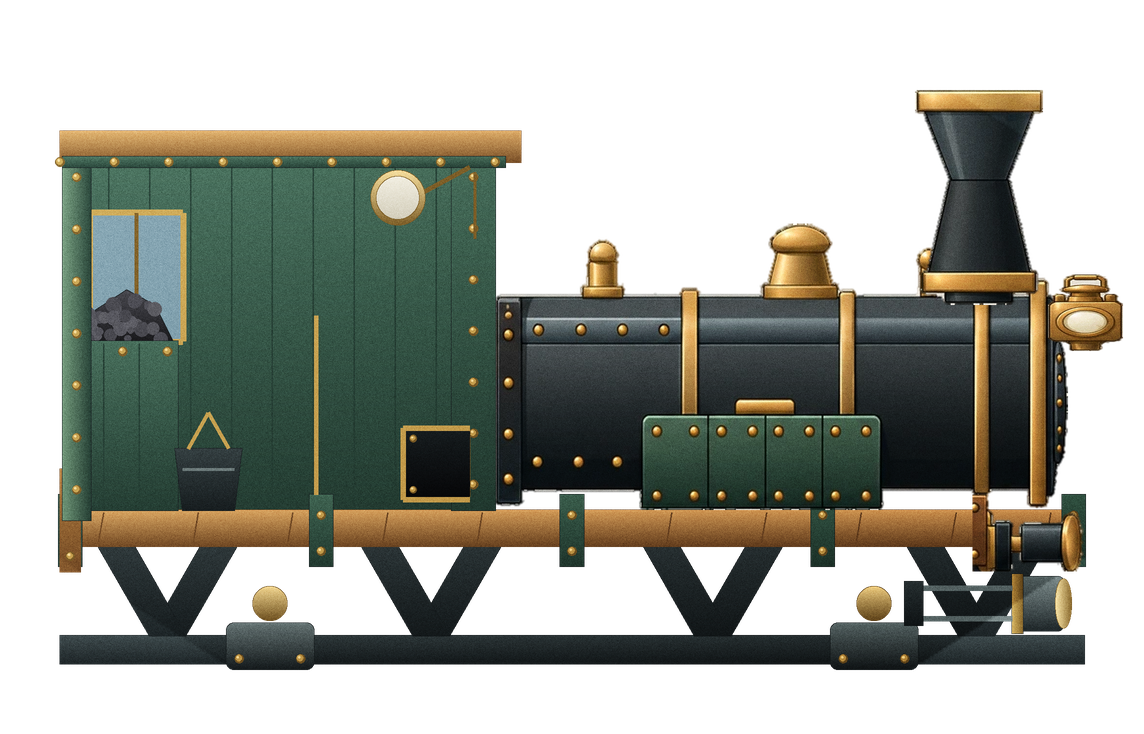
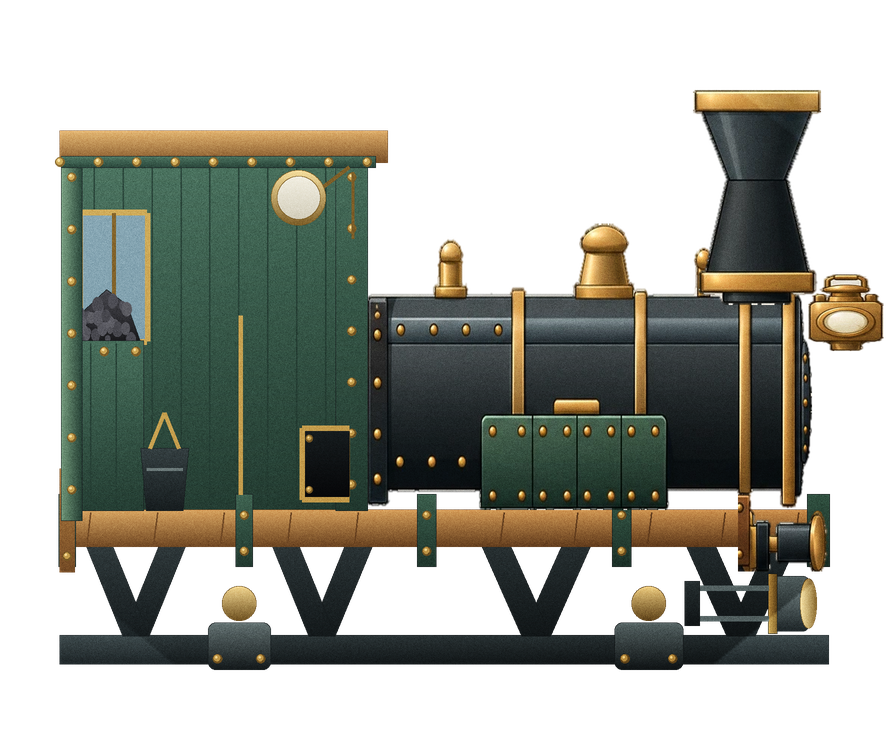
1.2.0-preview.13: platform lengths grow with class (2.4 / 3.0 / 3.6 / 4.0)
Steam 3.0 m and petrol 3.6 m (art re-laid out through XMAP in the art
scripts), electric stays 4.0 m. Wheels sit symmetrically per class; live
overlays (fire door, gauge, smoke, rods, lamp) moved with the art.

diff --git a/tools/make_steam_art.py b/tools/make_steam_art.py
@@ -28,7 +28,7 @@ OUT = ROOT / "ForestRail/assets/art_p2/steam_locomotive_body.png"
 S = 256            # output pixels per metre
 SS = 2             # supersampling
 MARGIN = 60        # output px
-LENGTH = 4.0
+LENGTH = 3.0
 HEIGHT = 2.40
 W = int(LENGTH * S + 2 * MARGIN)
 H = int(HEIGHT * S + 2 * MARGIN)
@@ -54,9 +54,36 @@ random.seed(7)
 canvas = Image.new("RGBA", (W * SS, H * SS), (0, 0, 0, 0))
 
 
+# The art is laid out on a 4.0 m drawing; XMAP squeezes or stretches stretches of it
+# to the standard platform length of this class (old x -> new x, piecewise linear).
+XMAP = [(-2.0, -1.5), (-0.3, -0.3), (1.94, 1.44), (2.0, 1.5)]
+
+
+def mx(x: float) -> float:
+    pts = XMAP
+    if x <= pts[0][0]:
+        i = 0
+    elif x >= pts[-1][0]:
+        i = len(pts) - 2
+    else:
+        i = max(k for k in range(len(pts) - 1) if pts[k][0] <= x)
+    (a0, b0), (a1, b1) = pts[i], pts[i + 1]
+    return b0 + (x - a0) * (b1 - b0) / (a1 - a0)
+
+
+def inv_mx(xn: float) -> float:
+    pts = XMAP
+    i = 0
+    for k in range(len(pts) - 1):
+        if pts[k][1] <= xn:
+            i = k
+    (a0, b0), (a1, b1) = pts[i], pts[i + 1]
+    return a0 + (xn - b0) * (a1 - a0) / (b1 - b0)
+
+
 def px(x: float, y: float):
     """Metres (x right of centre, y above rail) to supersampled pixels."""
-    return ((x + LENGTH / 2) * S + MARGIN) * SS, (RAIL_Y - y * S) * SS
+    return ((mx(x) + LENGTH / 2) * S + MARGIN) * SS, (RAIL_Y - y * S) * SS
 
 
 def lerp(a, b, t):
@@ -123,8 +150,10 @@ def poly(points, top, bottom, horizontal=False, edge=STEEL_D):
 
 
 def ellipse(cx, cy, rx, ry, top, bottom, horizontal=False, edge=STEEL_D):
-    a = px(cx - rx, cy + ry)
-    b = px(cx + rx, cy - ry)
+    # Centre is mapped, radii stay true so round parts remain round.
+    cxp, cyp = px(cx, cy)
+    a = (cxp - rx * S * SS, cyp - ry * S * SS)
+    b = (cxp + rx * S * SS, cyp + ry * S * SS)
     paint(lambda d: d.ellipse([a, b], fill=255), top, bottom, horizontal, edge=edge)
 
 
@@ -192,7 +221,7 @@ def cut(x, y, w, h):
 def paste(part, x_left, y_bottom, width_m=None, height_m=None):
     """Place a cut part with its bottom-left corner at metres (x_left, y_bottom)."""
     global canvas
-    w = int(width_m * S * SS) if width_m else part.width * SS * S // 258
+    w = int((mx(x_left + width_m) - mx(x_left)) * S * SS) if width_m else part.width * SS * S // 258
     h = int(height_m * S * SS) if height_m else part.height * SS * S // 258
     scaled = part.resize((w, h), Image.LANCZOS)
     left, bottom = px(x_left, y_bottom)
@@ -222,7 +251,7 @@ rect(-2.0, 0.04, 2.0, 0.15, STEEL, STEEL_D)
 for x in (-1.58, -0.55, 0.55, 1.58):
     poly([(x - 0.07, 0.15), (x + 0.07, 0.15), (x + 0.30, 0.55), (x + 0.16, 0.55)], STEEL, STEEL_D)
     poly([(x + 0.07, 0.15), (x - 0.07, 0.15), (x - 0.30, 0.55), (x - 0.16, 0.55)], STEEL, STEEL_D)
-for x in (-1.18, 1.18):
+for x in (inv_mx(-0.8), inv_mx(0.8)):
     rect(x - 0.17, 0.02, x + 0.17, 0.20, STEEL_L, STEEL_D, radius=0.03)
     ellipse(x, 0.275, 0.065, 0.065, BRASS_L, BRASS_D, edge=BRASS_D)
     rivet(x - 0.12, 0.06)
@@ -277,7 +306,7 @@ rivet(-0.62, 0.72, 0.014)
 CHIMNEY = cut(1098, 479, 129, 229)
 paste(CHIMNEY, 1.34, 1.44, height_m=0.84)
 LANTERN = cut(560, 758, 76, 149)
-paste(LANTERN, 1.86, 1.26, height_m=0.30)
+paste(LANTERN, 1.92, 1.26, height_m=0.30)
 
 # --- 12. outside cylinder, slide bars, buffer beams ------------------------------------
 rect(1.72, 0.17, 1.92, 0.38, STEEL_L, STEEL_D, radius=0.025, edge=STEEL_D)
@@ -323,5 +352,5 @@ print("bbox", box)
 axle_y = RAIL_Y - int(0.275 * S)
 cx = MARGIN + int(LENGTH * S / 2)
 print("region_px", [MARGIN, box[1], int(LENGTH * S), box[3] - box[1]])
-print("axles_px", [[cx - int(1.18 * S), axle_y], [cx + int(1.18 * S), axle_y]])
+print("axles_px", [[cx - int(0.8 * S), axle_y], [cx + int(0.8 * S), axle_y]])
 print("deck_y_px", RAIL_Y - int(0.60 * S))

diff --git a/tools/make_petrol_art.py b/tools/make_petrol_art.py
@@ -16,11 +16,12 @@ _ROOT = Path(__file__).resolve().parent
 _src = (_ROOT / "make_steam_art.py").read_text(encoding="utf-8")
 _header = _src[:_src.index("# --- 1. far cab wall")]
 _header = (_header.replace("steam_locomotive_body.png", "petrol_locomotive_body.png")
-           .replace("LENGTH = 4.0", "LENGTH = 2.8").replace("HEIGHT = 2.40", "HEIGHT = 2.20"))
+           .replace("LENGTH = 3.0", "LENGTH = 3.6").replace("HEIGHT = 2.40", "HEIGHT = 2.20"))
 exec(compile(_header, "make_steam_art_header", "exec"), globals())
 
 RED_W = (150, 40, 34)
-AXLE_X = 0.80          # wheel centres at +-0.80 m
+XMAP = [(-1.4, -1.8), (-0.4, -0.8), (0.98, 1.38), (1.4, 1.8)]   # stretch the hood only
+AXLE_X = 1.10          # wheel centres at +-1.10 m (new coordinates)
 DECK = 0.55            # floor height above the rail
 
 # --- far cab wall with window and door (see-through window) -------------------------
@@ -48,7 +49,7 @@ rect(-1.40, 0.03, 1.40, 0.13, STEEL, STEEL_D)
 for x in (-1.10, -0.35, 0.35, 1.10):
     poly([(x - 0.06, 0.13), (x + 0.06, 0.13), (x + 0.24, 0.43), (x + 0.12, 0.43)], STEEL, STEEL_D)
     poly([(x + 0.06, 0.13), (x - 0.06, 0.13), (x - 0.24, 0.43), (x - 0.12, 0.43)], STEEL, STEEL_D)
-for x in (-AXLE_X, AXLE_X):
+for x in (inv_mx(-AXLE_X), inv_mx(AXLE_X)):
     rect(x - 0.14, 0.02, x + 0.14, 0.18, STEEL_L, STEEL_D, radius=0.03)
     ellipse(x, 0.21, 0.05, 0.05, BRASS_L, BRASS_D, edge=BRASS_D)
 

diff --git a/docs/AI_IMPLEMENTATION_STAGES_v3.md b/docs/AI_IMPLEMENTATION_STAGES_v3.md
@@ -21,6 +21,10 @@
 
 Скриншоты генерации показывают художественное направление. Приёмочные скриншоты делаются из работающей игры. Тесты не должны подменять мышь прямым вызовом transfer() там, где проверяется интерфейс.
 
+## Платформы по классам (31.10.2026)
+
+Длина тела растёт с классом: ручная 2.4 м, паровоз 3.0, бензиновая 3.6, электровоз 4.0 (вагон 2.8). Колёса стоят симметрично: паровоз ±0.8 м, бензиновая ±1.1 м. Картинки паровоза и бензиновой собираются скриптами `tools/make_steam_art.py` и `tools/make_petrol_art.py` с таблицей `XMAP` (растягивает или сжимает участки рисунка до нужной длины, круглые детали остаются круглыми); живые детали в `art_v3.gd` подогнаны под новые координаты.
+
 ## Принятое управление ручной дрезины
 
 Пользователь оценил текущую механику как почти идеальную. Сохранить алгоритм мыши, хваты, геометрию рычага и шатуна, прохождение мёртвых точек, существующее подталкивание, обратное усилие, накат и инерцию маховика. Не добавлять помощь старта, новые жесты, второй способ захвата, коробку передач или переделку тормоза как обязательную часть N2.
